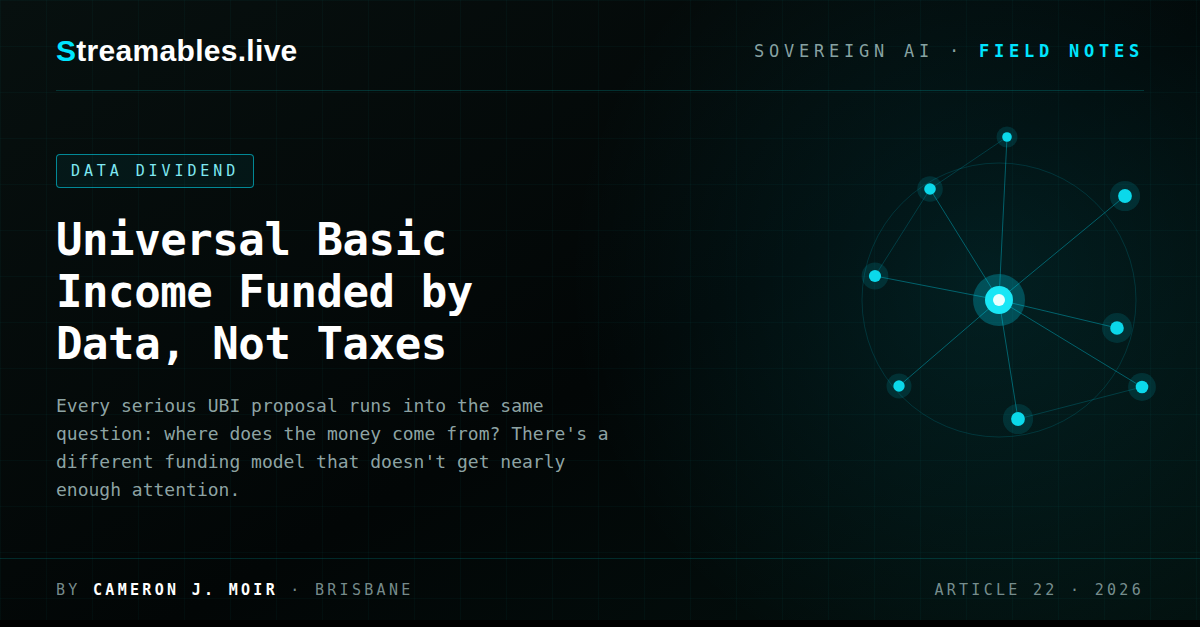
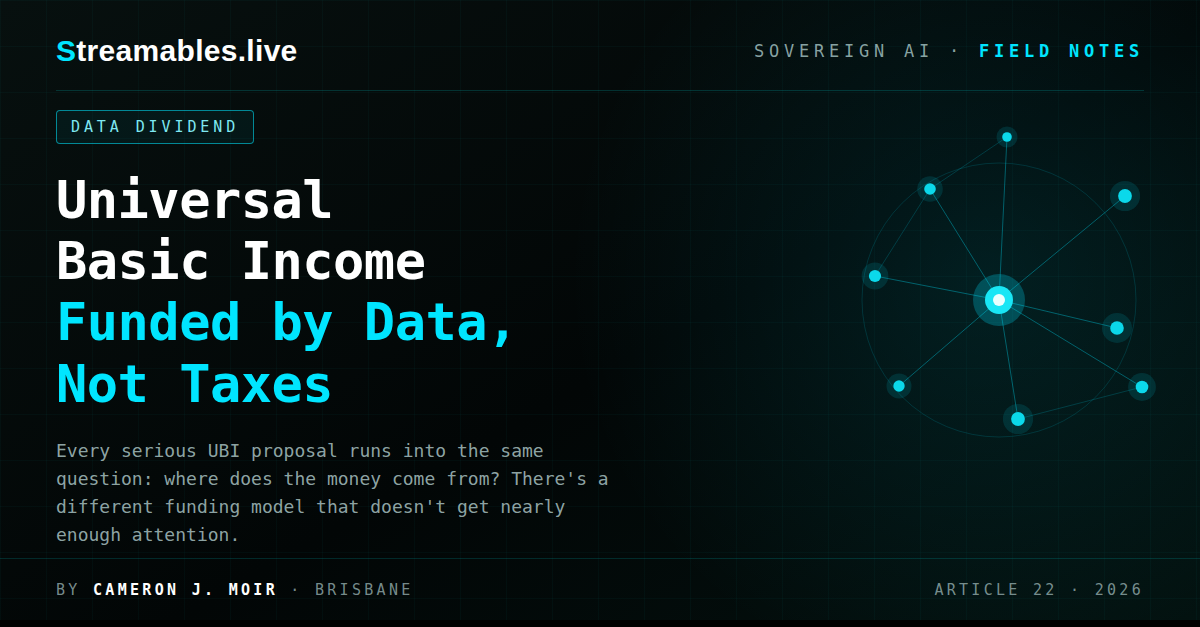
Add per-card OVERRIDES to card generator, tune seven headline splits
Any card can now set a custom white/cyan headline split, chip label,
category tag, or subline via the OVERRIDES dict. Tuned: 02, 20, 22,
28, 32, 33, 35.

Claude-Session: https://claude.ai/code/session_01Fs7dLzKPCZfoKVkcF3vGcF

Changed region(s): [[0.0308, 0.2424, 0.4933, 0.8182], [0.0617, 0.1818, 0.2158, 0.2121], [0.0308, 0.8485, 0.185, 0.8788]]

diff --git a/_business/linkedin/make-cards.py b/_business/linkedin/make-cards.py
@@ -45,6 +45,22 @@ CHIP = {
     "33": "ZERO BUDGET", "34": "PROVIDER PATTERN", "35": "HONEST LOGS",
 }
 
+# Per-card adjustments. Any key can be set for any article number:
+#   white / cyan  - custom headline split (cyan renders on its own line, in cyan)
+#   chip          - overrides CHIP
+#   cat           - overrides SERIES, as ("LEFT PART", "CYAN PART")
+#   desc          - overrides the meta-description subline
+# Add or edit entries, rerun make-cards.py, done.
+OVERRIDES = {
+    "02": {"white": "Why Most AI Projects Fail", "cyan": "in Year One"},
+    "20": {"white": "Hospitality Is a Data Goldmine", "cyan": "Nobody's Mining"},
+    "22": {"white": "Universal Basic Income", "cyan": "Funded by Data, Not Taxes"},
+    "28": {"white": "How I Built ClipTips", "cyan": "with Claude Code"},
+    "32": {"white": "What I Actually Paid in 2026", "cyan": "to Run a Live Interpreter"},
+    "33": {"white": "Building V1.5 for $0", "cyan": "While Waiting for Budget"},
+    "35": {"white": "Mistakes,", "cyan": "Captured Honestly"},
+}
+
 TPL = """<!doctype html><html><head><meta charset="utf-8"><style>
   * {{ margin:0; padding:0; box-sizing:border-box; }}
   html {{ background:#000; height:100%; }}
@@ -177,17 +193,22 @@ def main():
         title = html.unescape(t.group(1)).split("|")[0].strip() if t else f
         d = re.search(r'name="description" content="([^"]*)"', raw)
         desc = html.unescape(d.group(1)) if d else ""
+        ov = OVERRIDES.get(num, {})
+        desc = ov.get("desc", desc)
         if len(desc) > 210:
             desc = desc[:207].rsplit(" ", 1)[0] + "…"
-        white, cyan = split_title(title)
+        if "white" in ov:
+            white, cyan = ov["white"], ov.get("cyan")
+        else:
+            white, cyan = split_title(title)
         longest = max(len(white), len(cyan or ""))
         size = 52 if longest <= 34 else (44 if longest <= 48 else 38)
         h1 = glue_orphan(white)
         if cyan:
             h1 += '<br><span class="cy">' + glue_orphan(cyan) + "</span>"
-        cat1, cat2 = SERIES.get(num, ("SOVEREIGN AI", "FIELD NOTES"))
+        cat1, cat2 = ov.get("cat", SERIES.get(num, ("SOVEREIGN AI", "FIELD NOTES")))
         page = TPL.format(cat1=cat1, cat2=cat2,
-                          chip=CHIP.get(num, "FIELD NOTES"),
+                          chip=ov.get("chip", CHIP.get(num, "FIELD NOTES")),
                           title=h1, size=size,
                           desc=html.escape(desc),
                           graph=node_graph(int(num)), num=num)
